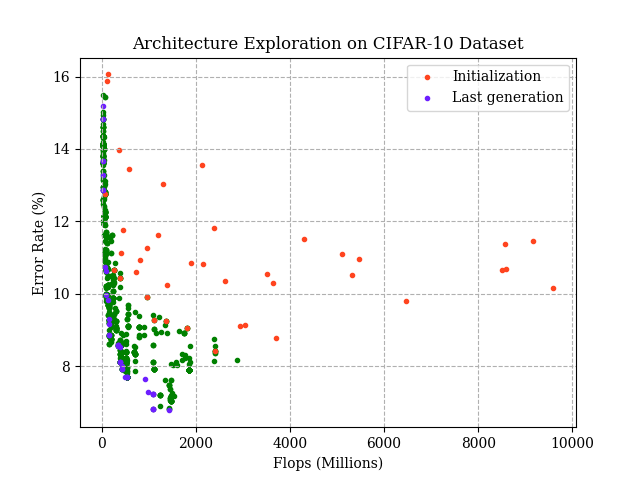
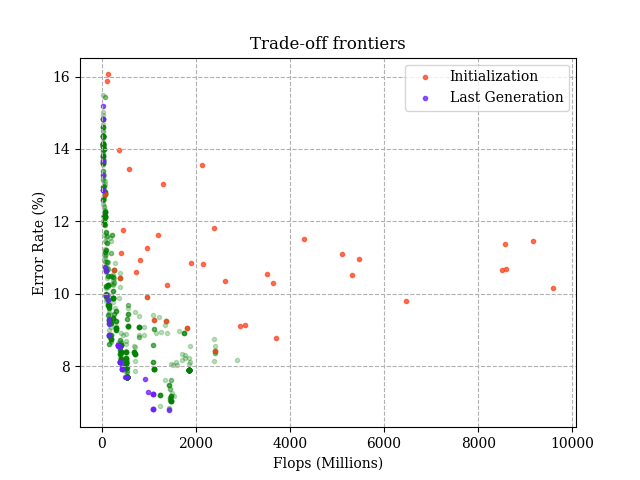
update figures, provide continuity for saving and loading models

diff --git a/agents/dl_agent.py b/agents/dl_agent.py
@@ -83,10 +83,6 @@ class DeepLearningAgent(Agent):
         self.parameters = list(filter(lambda p: p.requires_grad, self.model.parameters()))
         self.optimizer = getattr(optim, optimizer, None)(self.parameters,
                                                          **optimizer_args)
-        if scheduler:
-            self.scheduler = getattr(lr_scheduler, scheduler)(optimizer=self.optimizer, 
-                                                              **scheduler_args)
-
         # get device
         self.device = torch.device("cuda:0" if self.cuda else "cpu")
         self.model = self.model.to(self.device)
@@ -95,6 +91,10 @@ class DeepLearningAgent(Agent):
 
         # load checkpoint
         self.load_checkpoint(checkpoint_file)
+
+        if scheduler:
+            self.scheduler = getattr(lr_scheduler, scheduler)(optimizer=self.optimizer, 
+                                                              **scheduler_args)
 
         # save agent
         self.save_agent() if save_agent else ...
@@ -124,17 +124,17 @@ class DeepLearningAgent(Agent):
         checkpoint = torch.load(path)
         self.model.load_state_dict(checkpoint['model_state_dict'])
         self.optimizer.load_state_dict(checkpoint['optimizer_state_dict'])
-        self.current_epoch = checkpoint['epoch']
+        self.current_epoch = checkpoint['epoch'] + 1
         self.criterion = checkpoint['loss']
-        if 'scheduler' in checkpoint.keys():
-            self.scheduler = checkpoint['scheduler']
+        self.save_threshold = checkpoint['save_threshold']
+            
 
-    def save_checkpoint(self, error_rate):
+    def save_checkpoint(self, error_rate, best_err):
         checkpoint = {"epoch": self.current_epoch,
                       "model_state_dict": self.model.state_dict(),
                       "optimizer_state_dict": self.optimizer.state_dict(),
                       "loss": self.criterion,
-                      "scheduler": self.scheduler}
+                      "save_threshold": best_err}
 
         name = '{}-Ep_{:03d}-Err_{:.3f}.pth.tar'
         filepath = os.path.join(self.save_path, name.format(self.model.__class__.__name__,
@@ -161,7 +161,7 @@ class DeepLearningAgent(Agent):
             
             if valid_err < best_err:
                 best_err = valid_err
-                self.save_checkpoint(valid_err)
+                self.save_checkpoint(valid_err, best_err)
 
         if self.empty_cache:
           torch.cuda.empty_cache()

diff --git a/test.py b/test.py
@@ -10,23 +10,24 @@ with open(filename, 'rb') as handle:
 
 for i in range(1, len(gens)-1):
     mid_gen = gens[i]
-    plt.scatter(mid_gen.F_pop[:, 1], mid_gen.F_pop[:, 0], color='green', marker='.')
+    plt.scatter(mid_gen.F_pop[:, 1], mid_gen.F_pop[:, 0], color='green', marker='.', alpha=.5)
 
 init_gen = gens[0]
 last_gen = gens[-1]
-print(last_gen.ranks_F[0][0])
-print(last_gen.ranks[0][0])
+print(last_gen.ranks_F[0][4])
+print(last_gen.ranks[0][4])
 
-plt.scatter(init_gen.F_pop[:, 1], init_gen.F_pop[:, 0], color='#ff441f', marker='.')
-plt.scatter(last_gen.F_pop[:, 1], last_gen.F_pop[:, 0], color='#6d1fff', marker='.')
+plt.scatter(init_gen.F_pop[:, 1], init_gen.F_pop[:, 0], color='#ff441f', marker='.', alpha=.75)
+plt.scatter(last_gen.F_pop[:, 1], last_gen.F_pop[:, 0], color='#6d1fff', marker='.', alpha=.75)
 
 last_sorted_idx = np.argsort(last_gen.ranks_F[0][:, 1])
 init_sorted_idx = np.argsort(init_gen.ranks_F[0][:, 1])
 
-plt.plot(last_gen.ranks_F[0][last_sorted_idx][:, 1], 
-         last_gen.ranks_F[0][last_sorted_idx][:, 0], color='blue', label='Final front', linewidth=2)
+
 plt.plot(init_gen.ranks_F[0][init_sorted_idx][:, 1], 
-         init_gen.ranks_F[0][init_sorted_idx][:, 0], color='red', label='Initial front', linewidth=2)
+         init_gen.ranks_F[0][init_sorted_idx][:, 0], color='red', label='Initial front', linewidth=2, linestyle='--')
+plt.plot(last_gen.ranks_F[0][last_sorted_idx][:, 1], 
+         last_gen.ranks_F[0][last_sorted_idx][:, 0], color='blue', label='Final front', linewidth=2, linestyle='--')
 
 plt.plot(init_gen.ranks_F[0][:, 1], init_gen.ranks_F[0][:, 0], 'ro')
 plt.plot(last_gen.ranks_F[0][:, 1], last_gen.ranks_F[0][:, 0], 'b^')

diff --git a/train.py b/train.py
@@ -1,33 +1,25 @@
 from agents import *
 import json
-from utils.flops_benchmark import add_flops_counting_methods
-import torch
-import numpy as np  
 import time
+from utils.displayer import print_info
+import click
 
-def print_info(self):
-    n_params = (np.sum(np.prod(v.size()) for v in filter(lambda p: p.requires_grad, self.model.parameters())) / 1e6)
+@click.command()
+@click.option('--config', required=True)
+def cli(config):
+    with open('./configs/{}'.format(config)) as  json_file:
+        config = json.load(json_file)
+    agent_constructor = globals()[config['agent']]
 
-    self.model = add_flops_counting_methods(self.model)
-    self.model.eval()
-    self.model.start_flops_count()
-    random_data = torch.randn(1, *self.data_info['input_size'])
-    self.model(torch.autograd.Variable(random_data).to(self.device))
-    n_flops = np.round(self.model.compute_average_flops_cost() / 1e6, 4)
+    agent = agent_constructor(**config, callback=print_info)
 
-    print('{} Million of parameters | {} MFLOPS'.format(n_params, n_flops))
+    start = time.time()
+    agent.run()
+    agent.finalize()
 
-config = None
-with open('./configs/train_arch.json') as  json_file:
-    config = json.load(json_file)
-agent_constructor = globals()[config['agent']]
+    end = time.time() - start
 
-agent = agent_constructor(**config, callback=print_info)
+    print('Elapsed time: {}'.format(end))
 
-start = time.time()
-agent.run()
-agent.finalize()
-
-end = time.time() - start
-
-print('Elapsed time: {}'.format(end))
+if __name__ == '__main__':
+    cli()

diff --git a/main.py b/main.py
@@ -1,18 +1,24 @@
 from agents import *
 import json
 import time
+import click
 
-config = None
-with open('./configs/single_objective.json') as  json_file:
-    config = json.load(json_file)
-agent_constructor = globals()[config['agent']]
+@click.command()
+@click.option('--config', required=True)
+def cli(config):
+    with open('./configs/{}'.format(config)) as  json_file:
+        config = json.load(json_file)
+    agent_constructor = globals()[config['agent']]
 
-agent = agent_constructor(**config)
-start = time.time()
+    agent = agent_constructor(**config)
+    start = time.time()
 
-agent.run()
-agent.finalize()
-agent.problem._plot(agent.algorithm.result, plot_3D=False)
-end = time.time() - start
+    agent.run()
+    agent.finalize()
+    agent.problem._plot(agent.algorithm.result, plot_3D=False)
+    end = time.time() - start
 
-print('Elapsed time: {}'.format(end))
+    print('Elapsed time: {}'.format(end))
+
+if __name__ == '__main__':
+    cli()

diff --git a/utils/displayer.py b/utils/displayer.py
@@ -1,5 +1,8 @@
 import time
 from model.display import Display
+from utils.flops_benchmark import add_flops_counting_methods
+import torch
+import numpy as np
 
 class NSGANetDisplay(Display):
     def _do(self, ga):
@@ -21,3 +24,15 @@ class SODisplay(Display):
         self.add_attributes('n_evals', algorithm.n_evals)
 
         self.add_attributes('elite', algorithm.pop[algorithm.elite_idx])
+
+def print_info(self):
+    n_params = (np.sum(np.prod(v.size()) for v in filter(lambda p: p.requires_grad, self.model.parameters())) / 1e6)
+
+    self.model = add_flops_counting_methods(self.model)
+    self.model.eval()
+    self.model.start_flops_count()
+    random_data = torch.randn(1, *self.data_info['input_size'])
+    self.model(torch.autograd.Variable(random_data).to(self.device))
+    n_flops = np.round(self.model.compute_average_flops_cost() / 1e6, 4)
+
+    print('{} Million of parameters | {} MFLOPS'.format(n_params, n_flops))
